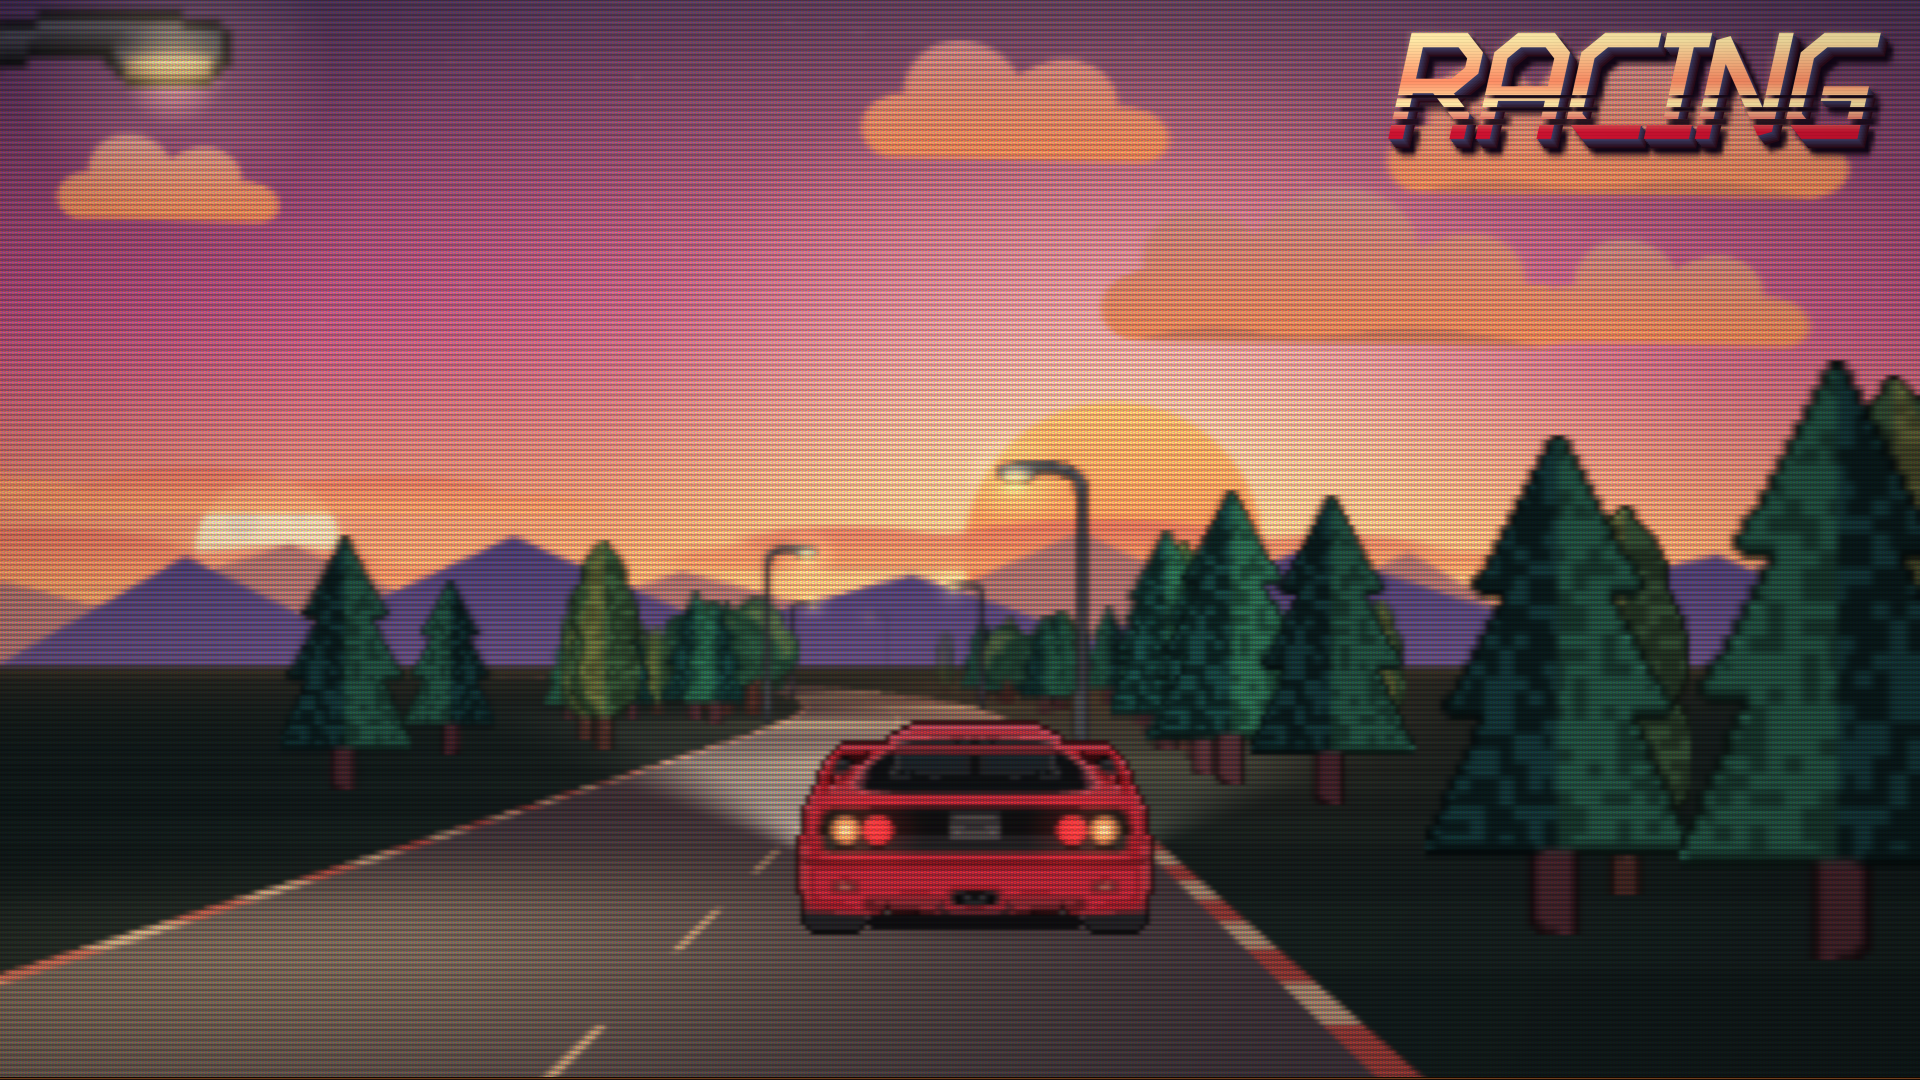
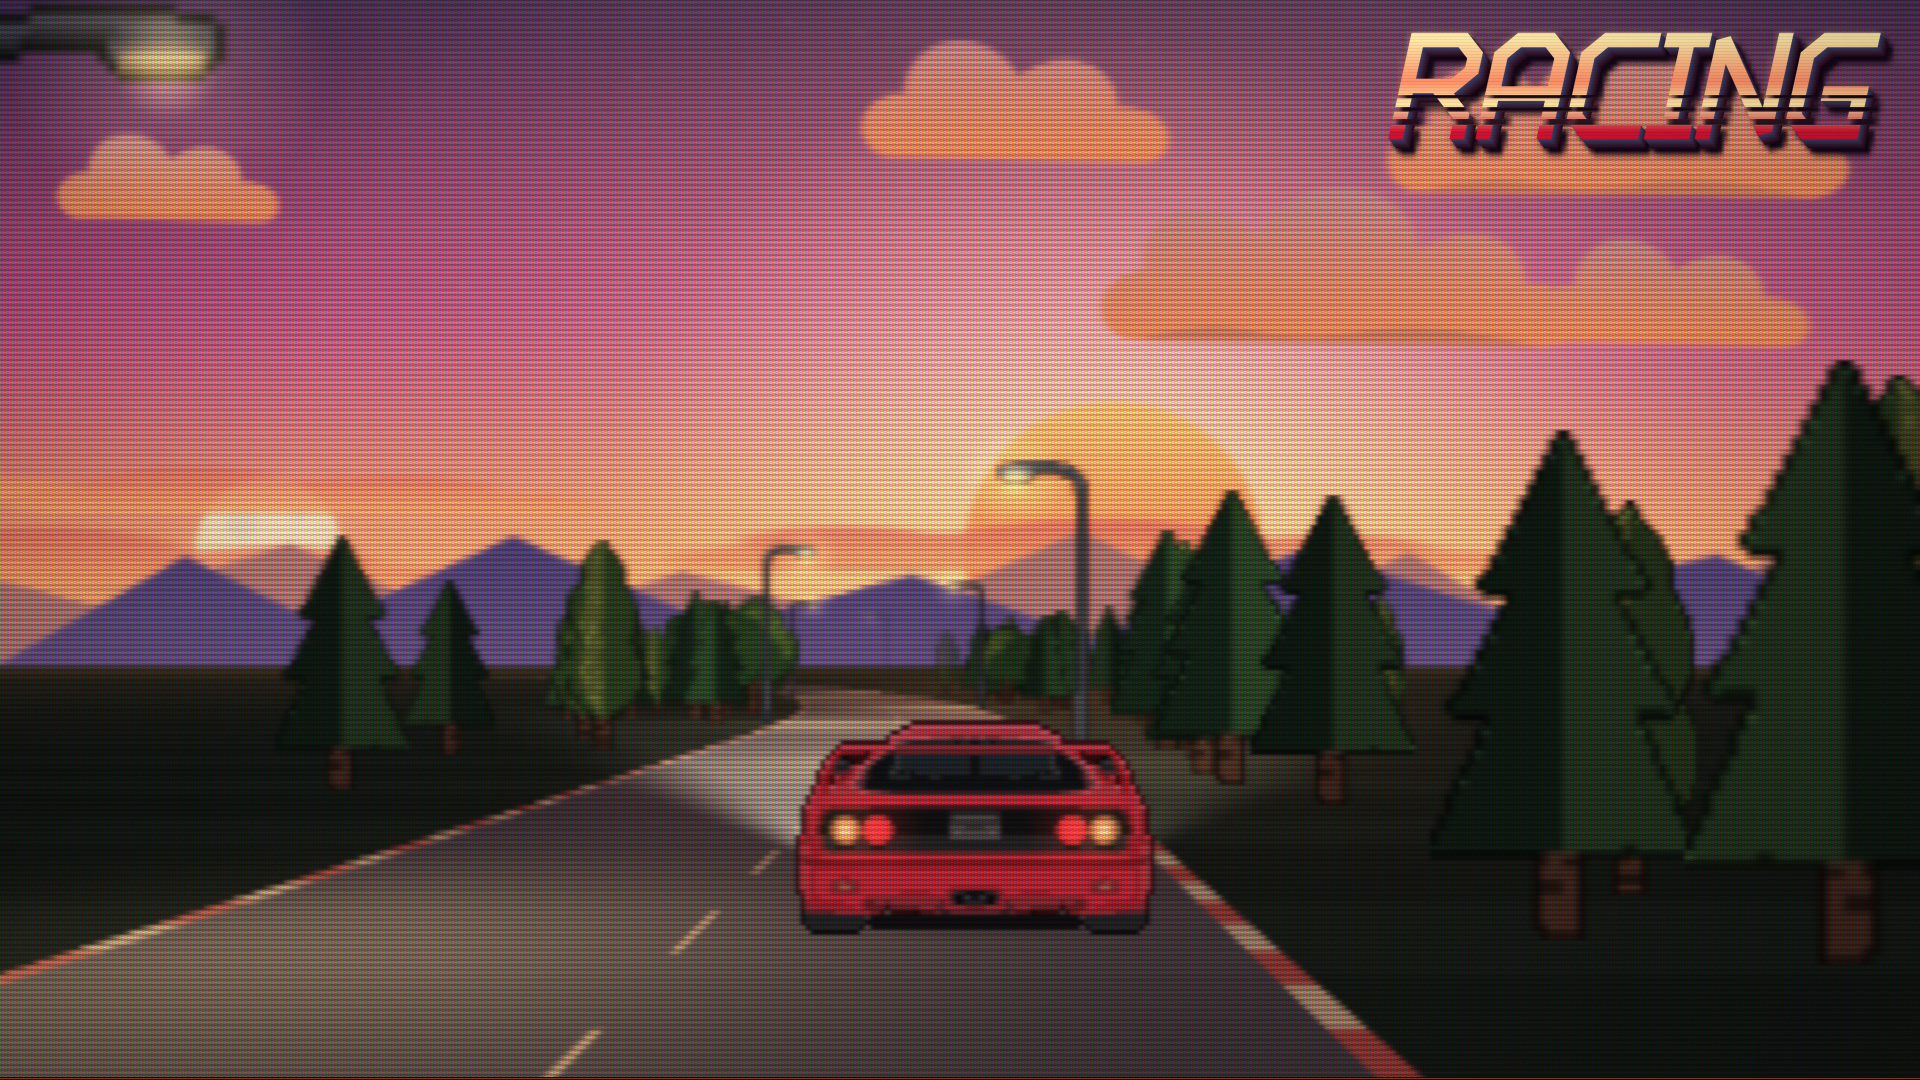
racing: a natural daylight, not a cartoon's
By day everything was at full brightness in bright colours: mint grass, teal trees, pure white clouds
and a white light on all of it. The day now has its own light, a little dimmer and warmer than white
(light_day), a deeper sky that hazes towards the horizon, grass in a field's olive green, trees in
natural greens and browns, and clouds grey underneath. The sun high in the sky is small and white in
a glare; its sunset colours and size are only the low sun's. Dawn, dusk and night are as they were.

diff --git a/src/elements/racing.rs b/src/elements/racing.rs
@@ -359,6 +359,7 @@ struct Settings {
     ground_day: [Colour; 2],
     ground_night: [Colour; 2],
     road: [Colour; 4],
+    light_day: Colour,
     light_dusk: Colour,
     light_night: Colour,
     headlights: Colour,
@@ -666,9 +667,9 @@ impl Racing {
         SkyLook { stops, glow, strength: 0.25 * l.day + 0.9 * l.dusk, band: 0.55 * l.dusk }
     }
 
-    /// The scene's light on what stands in it: white by day, warm at dusk, dark blue at night.
+    /// The scene's light on what stands in it: daylight by day, warm at dusk, dark blue at night.
     fn tint(&self, l: &Light) -> Rgb {
-        let night = mixed(self.s.light_night.rgb(), (1.0, 1.0, 1.0), l.day);
+        let night = mixed(self.s.light_night.rgb(), self.s.light_day.rgb(), l.day);
         mixed(night, self.s.light_dusk.rgb(), l.dusk * l.day.max(0.35) * 0.9)
     }
 
@@ -684,8 +685,8 @@ impl Racing {
     }
 
     fn sun_size(l: &Light) -> f64 {
-        // larger, and redder, low in the sky
-        150.0 + 90.0 * smoothstep(0.5, 0.0, l.elevation.abs())
+        // larger, and redder, low in the sky; small and white high in it
+        105.0 + 135.0 * smoothstep(0.5, 0.0, l.elevation.abs())
     }
 
     /// The sprites behind the road: stars, the sun's halo, the sun, the moon, clouds and hills; all
@@ -712,6 +713,15 @@ impl Racing {
             out.push(p);
             let tint = mixed((1.0, 1.0, 1.0), (1.0, 0.72, 0.62), low);
             out.push(self.place(SUN, (x - size / 2.0, y - size / 2.0, x + size / 2.0, y + size / 2.0), tint, 1.0));
+            // high in the sky, a white glare over it: the sunset's colours are only the low sun's
+            let high = smoothstep(0.15, 0.6, l.elevation);
+            if high > 0.01 {
+                for r in [size * 1.5, size * 0.9] {
+                    let mut p = self.place(GLOW, (x - r, y - r, x + r, y + r), (1.0, 0.99, 0.94), high);
+                    p.mode = Mode::Light(Blend::Screen);
+                    out.push(p);
+                }
+            }
         }
         // the moon, by night
         if (-0.08..=1.08).contains(&l.moon) && l.day < 0.6 {
@@ -746,10 +756,11 @@ impl Racing {
                 out.push(p);
             }
         }
-        // clouds drifting, lit from below at dawn and dusk, dark at night
+        // clouds drifting: grey beneath by day, lit from below at dawn and dusk, dark at night
         if n > 0 {
-            let top = mixed(mixed((0.1, 0.11, 0.18), (1.0, 1.0, 1.0), l.day), mixed(sky.stops[1], (1.0, 0.85, 0.85), 0.5), l.dusk * 0.7);
-            let under = mixed(top, sky.glow, l.dusk * 0.85);
+            let top = mixed(mixed((0.1, 0.11, 0.18), (0.95, 0.95, 0.94), l.day), mixed(sky.stops[1], (1.0, 0.85, 0.85), 0.5), l.dusk * 0.7);
+            let shaded = mixed(top, (0.6, 0.66, 0.76), 0.55 * l.day * (1.0 - l.dusk));
+            let under = mixed(shaded, sky.glow, l.dusk * 0.85);
             for i in 0..5 {
                 let sprite = self.clouds.start + (hash(self.seed, i, 51) * n as f64) as usize % n;
                 let (w0, h0) = self.sprites[sprite].size;
@@ -1966,7 +1977,7 @@ trees_density = 0.55
 pole_spacing = 18.0
 pixels = 240.0
 colours = 32.0
-sky_day = ["#4f86a8", "#86b4c4", "#c9decc"]
+sky_day = ["#3b6a96", "#7299b8", "#b4c8cf"]
 sky_dawn = ["#2e3a72", "#c47a9c", "#ffd0a0"]
 sky_dusk = ["#2a1c52", "#b8467a", "#ff9a5c"]
 sky_night = ["#02030a", "#060a18", "#10162c"]
@@ -1975,9 +1986,10 @@ glow_dusk = "#ff8a4c"
 hills_day = ["#637588", "#7a8c98"]
 hills_dusk = ["#4a3a6e", "#7a5a86"]
 hills_night = ["#0a0e1c", "#0e1424"]
-ground_day = ["#468779", "#52947f"]
+ground_day = ["#4a6339", "#566f40"]
 ground_night = ["#0e1a20", "#112026"]
 road = ["#535366", "#dc6262", "#fff0cd", "#f6e3bd"]
+light_day = "#e6e2d6"
 light_dusk = "#ffb48a"
 light_night = "#141a30"
 headlights = "#fff0c8"
